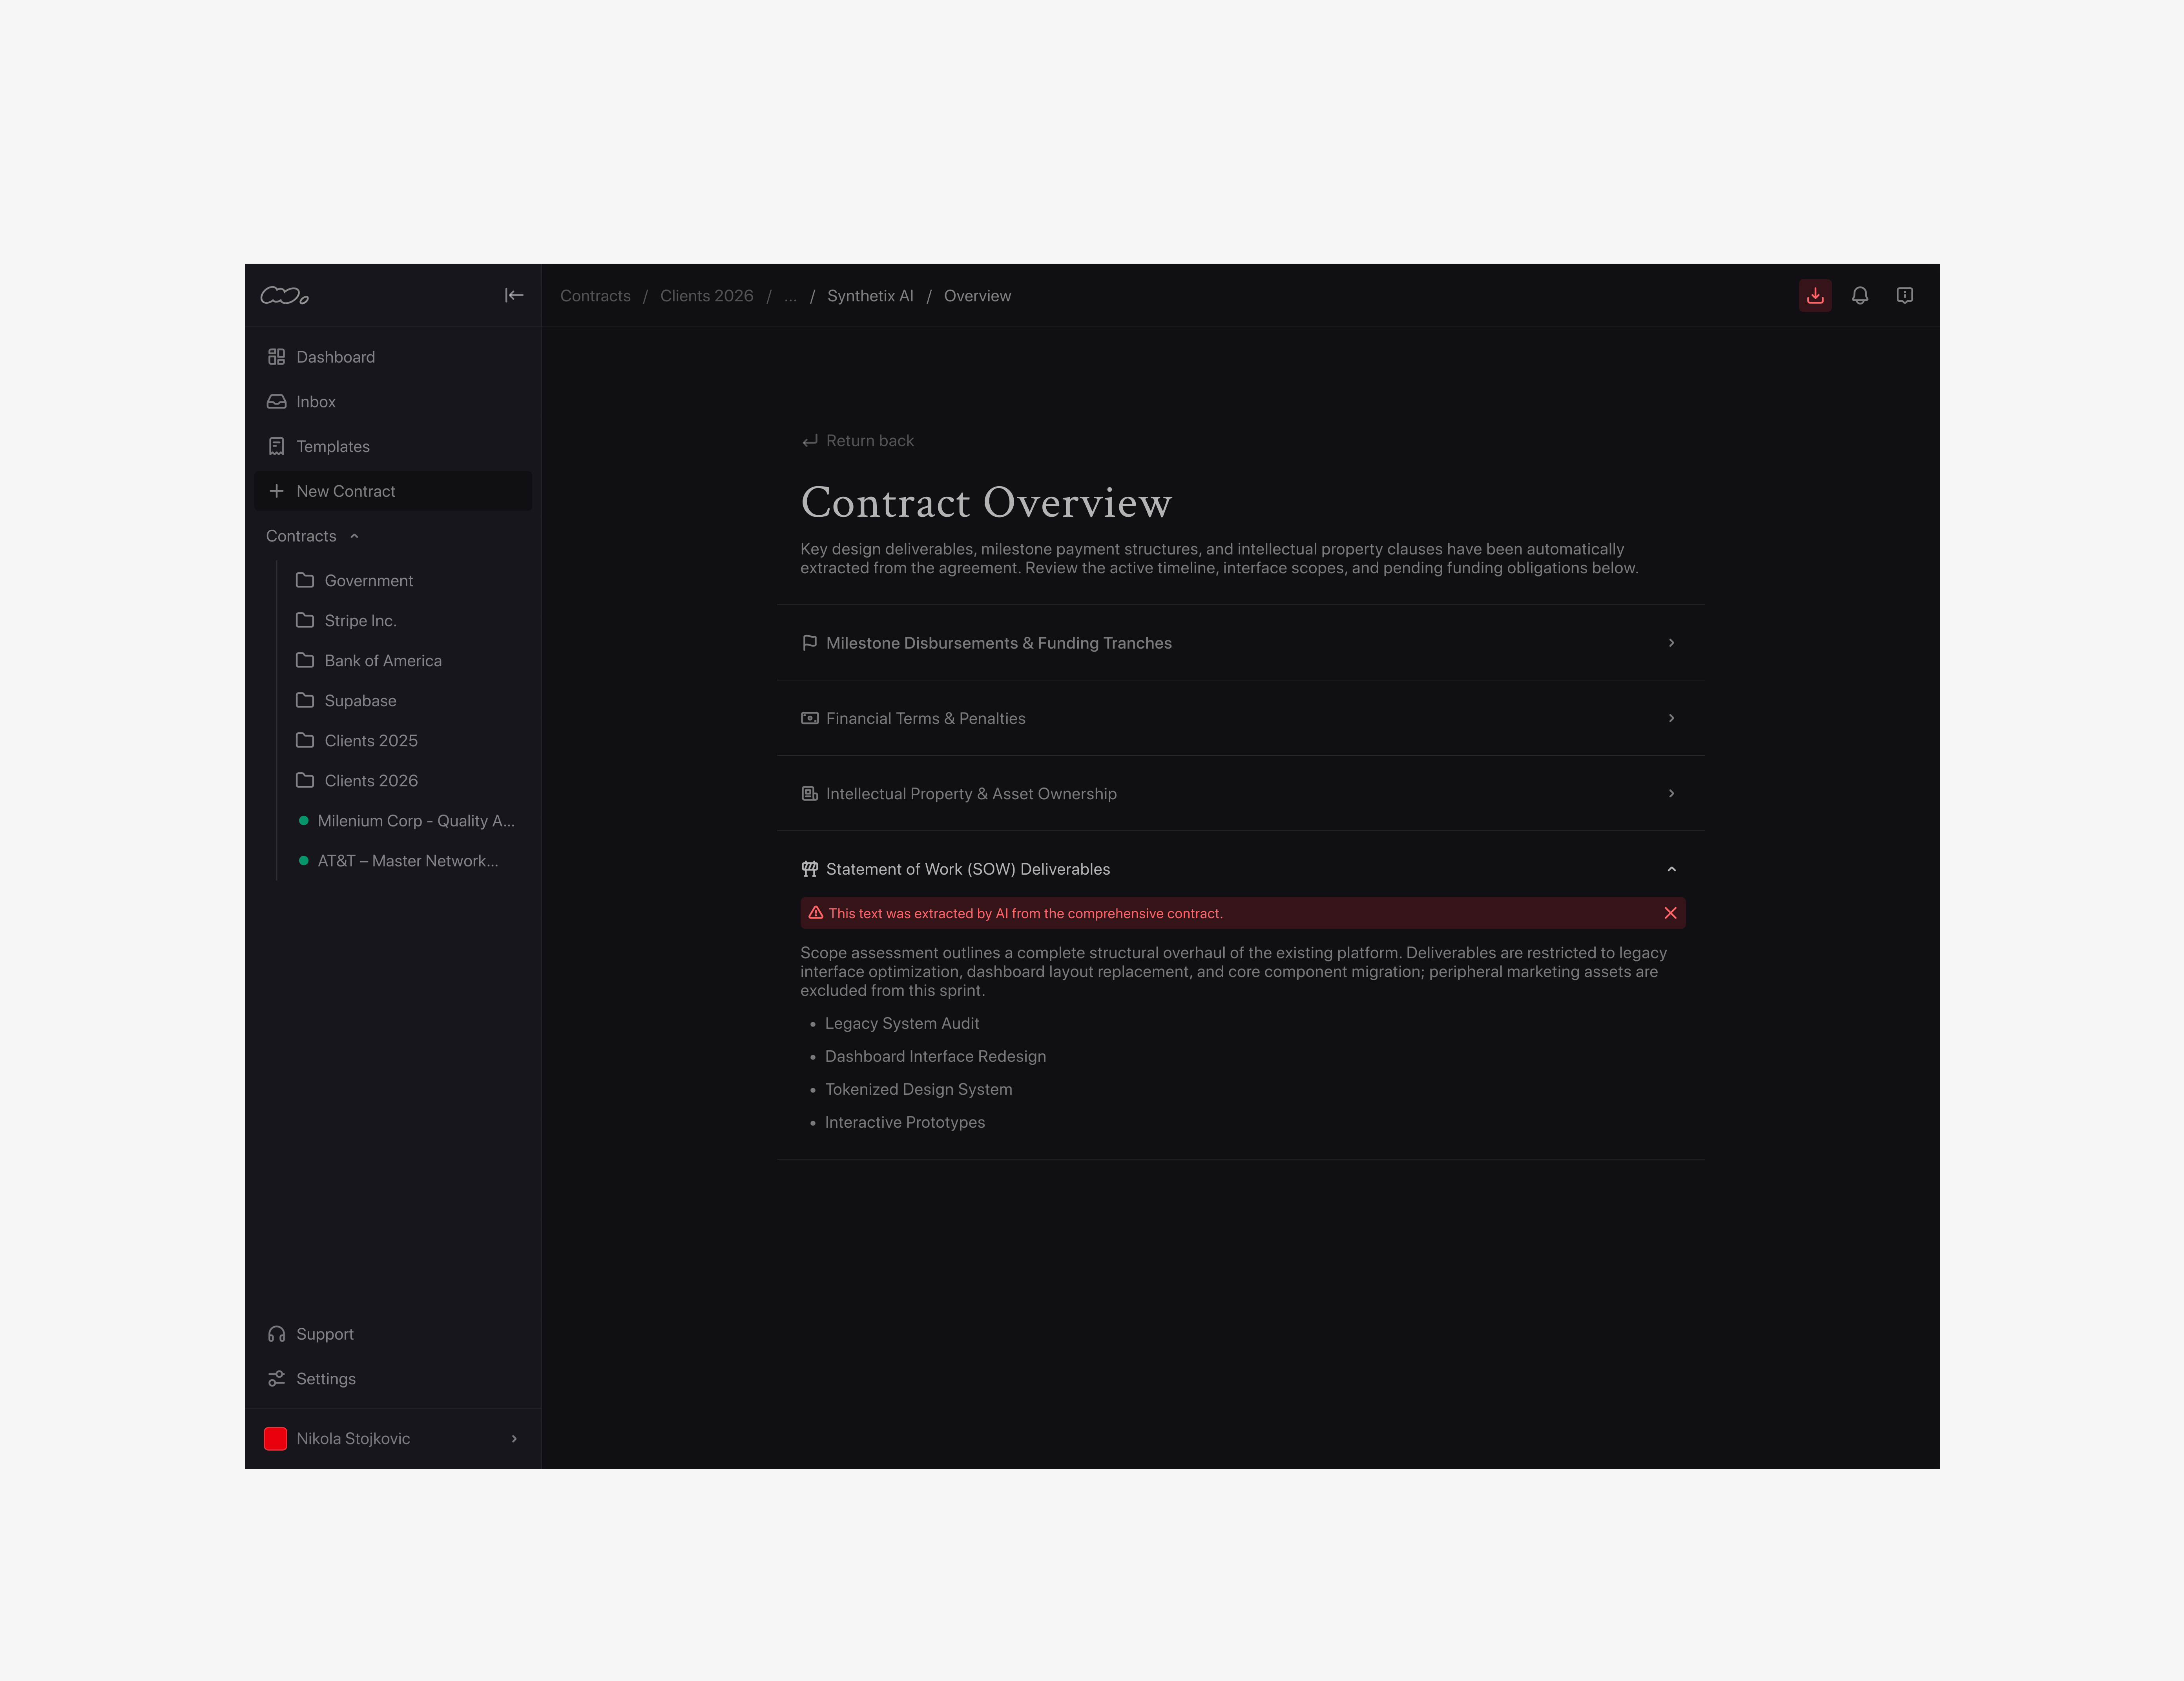
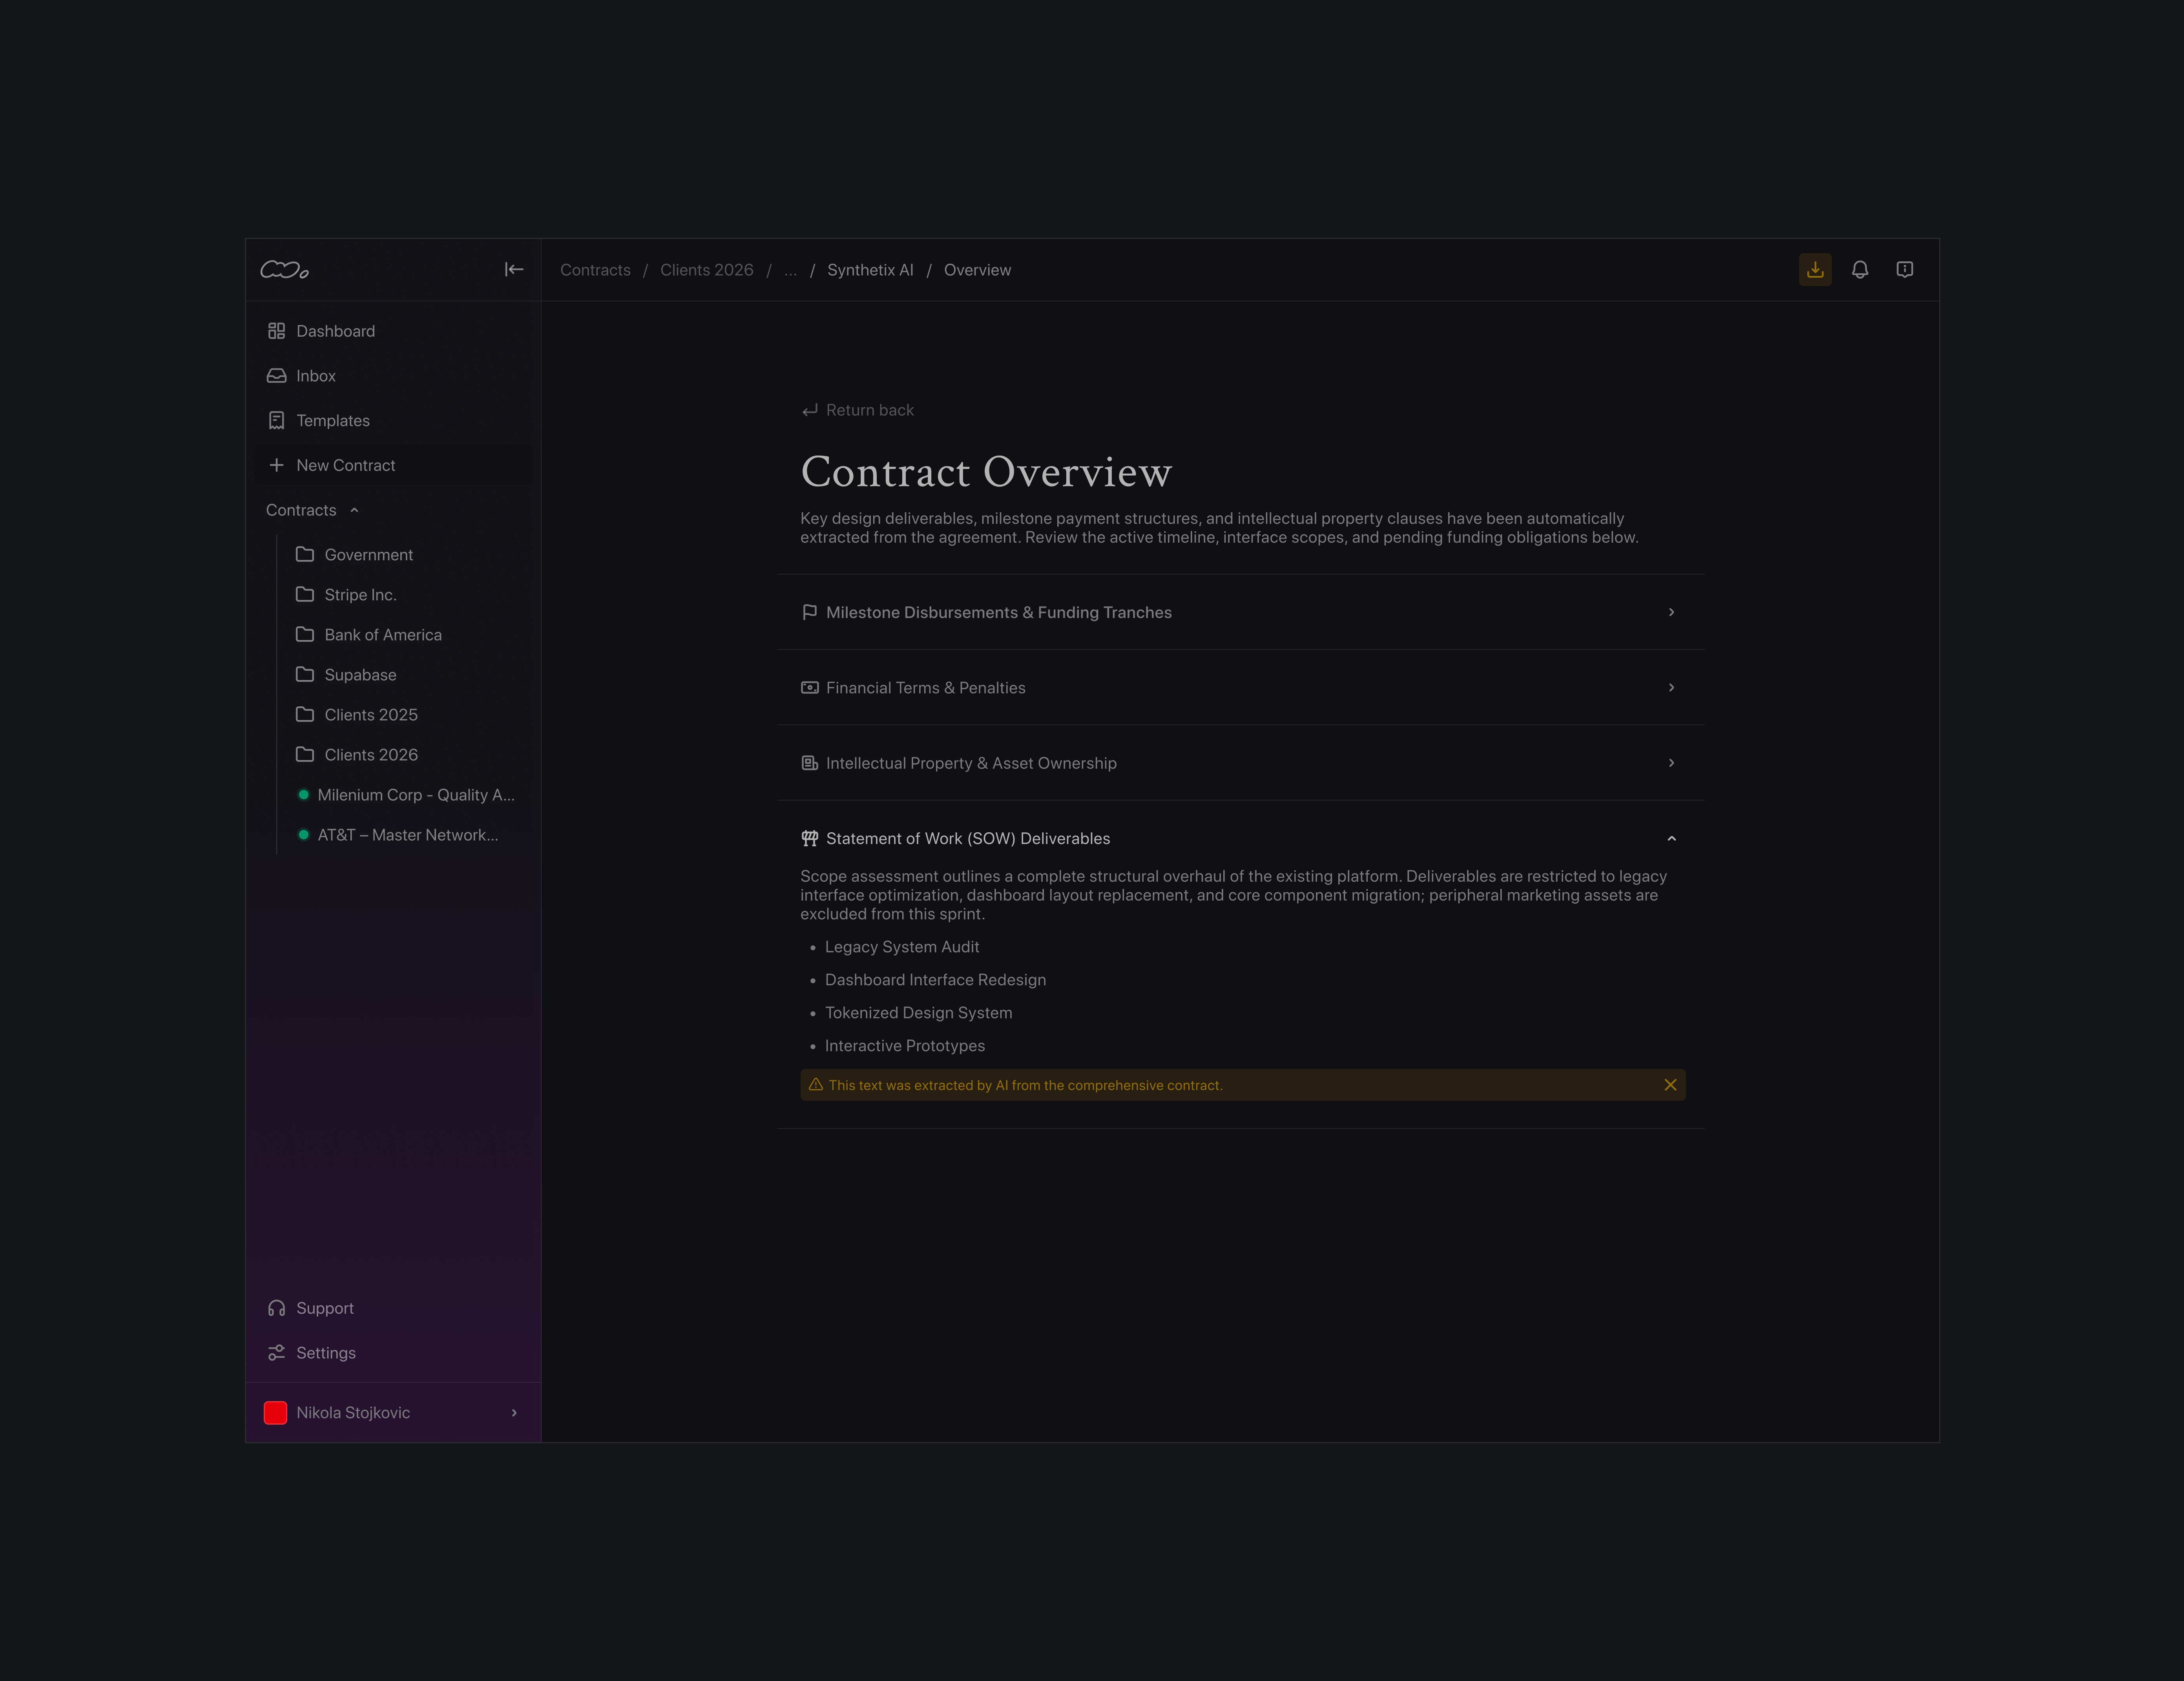
Small updates.

diff --git a/style.css b/style.css
@@ -128,7 +128,7 @@ a.link::after,
   left: 0;
   width: 0;
   height: 1.5px;
-  background-color: #ffffff;
+  background-color: var(--link-color);
   transition: width 0.2s ease-out;
   
   -webkit-backface-visibility: hidden;